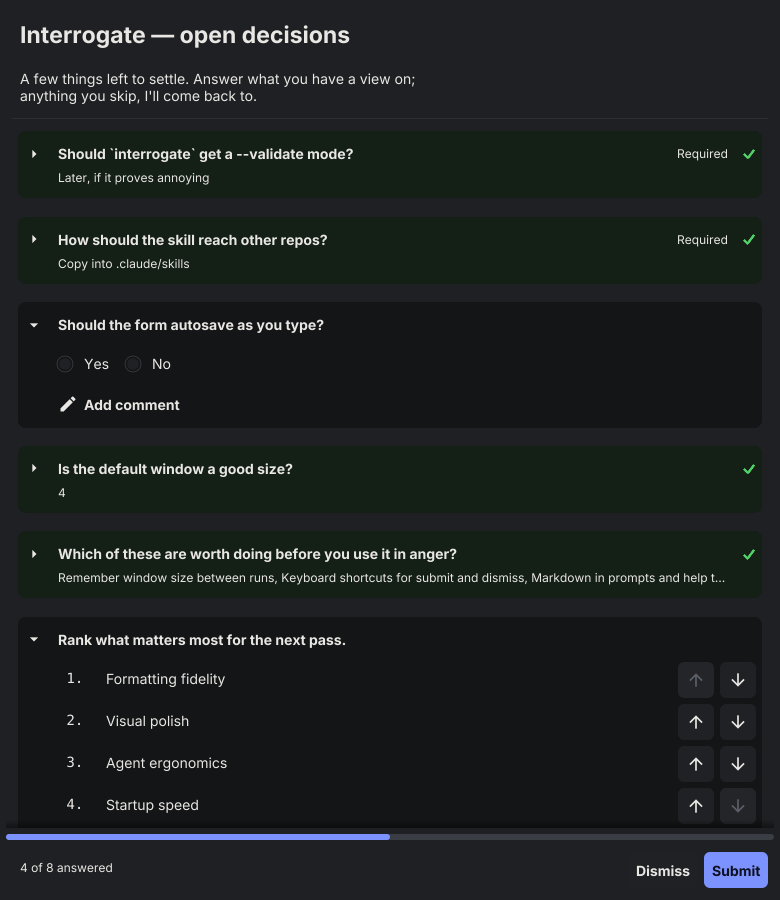
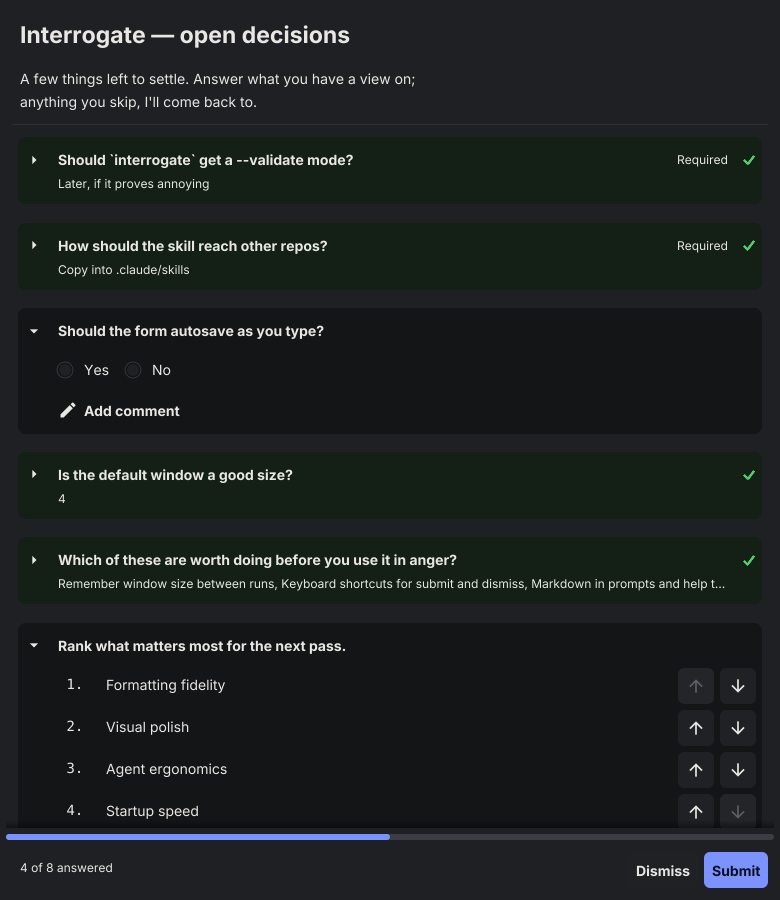
Give the intro the line height a paragraph wants
The title and the intro were set as tight as the questions, which reads
crowded for the one part of the page that is prose rather than a form.

The theme's line spacing is no use here: Fyne applies it between
rich-text segments and explicitly not between the rows inside one, so a
label's own wrapped lines ignore it -- setting it to 4 or to 20 renders
the same bytes. The intro is therefore built a line at a time, stacked
with the gap named rather than inherited.

That gap is measured between the lines of text. A label pads itself top
and bottom, so two of them in a box layout sit a whole label apart,
around three times the leading of one wrapped paragraph; the stack takes
that padding back out and adds what it was asked for. The prompt and its
answer go through the same layout and keep the spacing they had.

A long title now wraps rather than running off the window.

diff --git a/internal/ui/intro_test.go b/internal/ui/intro_test.go
@@ -1,0 +1,78 @@
+package ui
+
+import (
+	"testing"
+
+	"fyne.io/fyne/v2"
+	"fyne.io/fyne/v2/theme"
+	"fyne.io/fyne/v2/widget"
+)
+
+// The gap a tightStack is asked for is the space between the lines of text, not
+// between the labels: a label pads itself top and bottom, and two of them in a
+// box layout sit a whole label apart.
+func TestATightStacksGapIsBetweenTheText(t *testing.T) {
+	inner := theme.Size(theme.SizeNameInnerPadding)
+	for _, gap := range []float32{0, 4, 8} {
+		stack := &tightStack{gap: gap}
+		if got, want := stack.overlap(), 2*inner-gap; got != want {
+			t.Errorf("gap %v overlaps by %v, want %v", gap, got, want)
+		}
+	}
+	// A gap wider than the padding there is to take back cannot overlap
+	// negatively; the labels just sit apart.
+	if got := (&tightStack{gap: 1000}).overlap(); got != 0 {
+		t.Errorf("overlap = %v for a gap wider than the padding, want 0", got)
+	}
+}
+
+// Fyne's line spacing is applied between rich-text segments and explicitly not
+// between the rows inside one, so the intro is built a line at a time: the
+// leading inside a single label cannot be set at all.
+func TestTheIntroIsBuiltALineAtATime(t *testing.T) {
+	f := &form{}
+	obj := f.intro("First line of the intro.\nSecond line of the intro.")
+
+	box, ok := obj.(*fyne.Container)
+	if !ok {
+		t.Fatalf("the intro is a %T, want a container of lines", obj)
+	}
+	if got := len(box.Objects); got != 2 {
+		t.Fatalf("the intro is %d objects, want one per authored line", got)
+	}
+
+	first, ok := box.Objects[0].(*widget.Label)
+	if !ok {
+		t.Fatalf("the first line is a %T", box.Objects[0])
+	}
+	second := box.Objects[1].(*widget.Label)
+	if first.Text != "First line of the intro." || second.Text != "Second line of the intro." {
+		t.Errorf("lines are %q and %q", first.Text, second.Text)
+	}
+	for _, line := range []*widget.Label{first, second} {
+		if line.Wrapping != fyne.TextWrapWord {
+			t.Error("an intro line should wrap rather than run off the window")
+		}
+	}
+
+	box.Resize(box.MinSize())
+	inner := theme.Size(theme.SizeNameInnerPadding)
+	// From the bottom of the first line's text to the top of the second's.
+	textGap := (second.Position().Y + inner) -
+		(first.Position().Y + first.MinSize().Height - inner)
+	if textGap != introLeading {
+		t.Errorf("the intro's lines are %v apart, want the %v asked for", textGap, introLeading)
+	}
+	// Which has to be more than a label sets for itself, or there was no point.
+	if introLeading <= 0 {
+		t.Error("the intro leading should add space, not remove it")
+	}
+}
+
+func TestTheIntroKeepsBlankLinesAsParagraphBreaks(t *testing.T) {
+	f := &form{}
+	box := f.intro("First paragraph.\n\nSecond paragraph.").(*fyne.Container)
+	if got := len(box.Objects); got != 3 {
+		t.Errorf("%d objects, want the blank line kept as a break", got)
+	}
+}

diff --git a/internal/ui/widget_header.go b/internal/ui/widget_header.go
@@ -88,7 +88,7 @@ func newQuestionHeader(q *questionnaire.Question, onTap func()) *questionHeader 
 	// enough to wrap -- which is most of them, on a real questionnaire -- left
 	// the answer stranded out to the right, level with a line of the question
 	// it had nothing to do with.
-	h.stack = container.New(&tightStack{}, h.prompt, h.summary)
+	h.stack = container.New(&tightStack{gap: promptAnswerGap}, h.prompt, h.summary)
 
 	// The chevron and the trailing marks are placed against the prompt's first
 	// line of text, which is neither the top of the header nor the middle of
@@ -184,15 +184,30 @@ func show(obj fyne.CanvasObject, visible bool) {
 	obj.Hide()
 }
 
-// tightStack stacks the prompt and the answer as one block.
+// tightStack stacks labels as one block of text, gap pixels apart.
 //
-// A box layout would set them a whole padding apart, on top of the padding each
-// label already carries, leaving a gap wide enough to read as two separate
-// things. Overlapping by that built-in padding puts them where two lines of the
-// same paragraph would sit.
-type tightStack struct{}
+// The gap is measured between the lines of text, not between the labels: a
+// label pads itself top and bottom, so two of them in a box layout sit a whole
+// label apart -- around three times the leading of one wrapped paragraph -- and
+// read as separate things. The stack takes that padding back out and adds the
+// gap it is asked for.
+//
+// This is the only way to set the leading between lines at all. Fyne applies
+// its line spacing between rich-text segments and explicitly not between the
+// rows inside one, so the wrapped lines of a label ignore the theme entirely.
+type tightStack struct {
+	gap float32
+}
 
-func (t *tightStack) overlap() float32 { return theme.Size(theme.SizeNameInnerPadding) }
+func (t *tightStack) overlap() float32 {
+	// A label's own padding, top and bottom, is what stands between the two
+	// lines of text before anything is asked for.
+	overlap := 2*theme.Size(theme.SizeNameInnerPadding) - t.gap
+	if overlap < 0 {
+		return 0
+	}
+	return overlap
+}
 
 func (t *tightStack) MinSize(objects []fyne.CanvasObject) fyne.Size {
 	var size fyne.Size
@@ -284,6 +299,11 @@ func (l *headerLayout) parts(objects []fyne.CanvasObject) (chevron, stack, trail
 	}
 	return objects[0], objects[1], objects[2], true
 }
+
+// promptAnswerGap is the space between a collapsed question's prompt and the
+// answer beneath it: a little more than the leading inside the prompt itself,
+// so the two read as prompt and response rather than one wrapped sentence.
+const promptAnswerGap = 8
 
 // promptInset is where a question's prompt starts: past the column the fold
 // chevron sits in. Everything else the question shows lines up with it, so this

diff --git a/internal/ui/form.go b/internal/ui/form.go
@@ -155,15 +155,34 @@ func (f *form) header() fyne.CanvasObject {
 	title := widget.NewLabel(f.doc.Title)
 	title.TextStyle = fyne.TextStyle{Bold: true}
 	title.SizeName = theme.SizeNameHeadingText
+	title.Wrapping = fyne.TextWrapWord
 
 	items := []fyne.CanvasObject{title}
 	if intro := strings.TrimSpace(f.doc.Intro); intro != "" {
-		body := widget.NewLabel(intro)
-		body.Wrapping = fyne.TextWrapWord
-		items = append(items, body)
+		items = append(items, f.intro(intro))
 	}
 	items = append(items, widget.NewSeparator())
 	return container.NewVBox(items...)
+}
+
+// introLeading is the space between the intro's lines. The intro is the one
+// paragraph on the page that is read rather than answered, and the leading a
+// label sets for itself is tight for that.
+const introLeading = 6
+
+// intro lays the questionnaire's introduction out a line at a time.
+//
+// One label per authored line, rather than one label holding all of them: the
+// leading between rows inside a single label is the toolkit's own and cannot be
+// set, while the space between two labels is ours to choose.
+func (f *form) intro(intro string) fyne.CanvasObject {
+	var lines []fyne.CanvasObject
+	for _, line := range strings.Split(intro, "\n") {
+		body := widget.NewLabel(strings.TrimRight(line, " \t"))
+		body.Wrapping = fyne.TextWrapWord
+		lines = append(lines, body)
+	}
+	return container.New(&tightStack{gap: introLeading}, lines...)
 }
 
 func (f *form) footer() fyne.CanvasObject {
